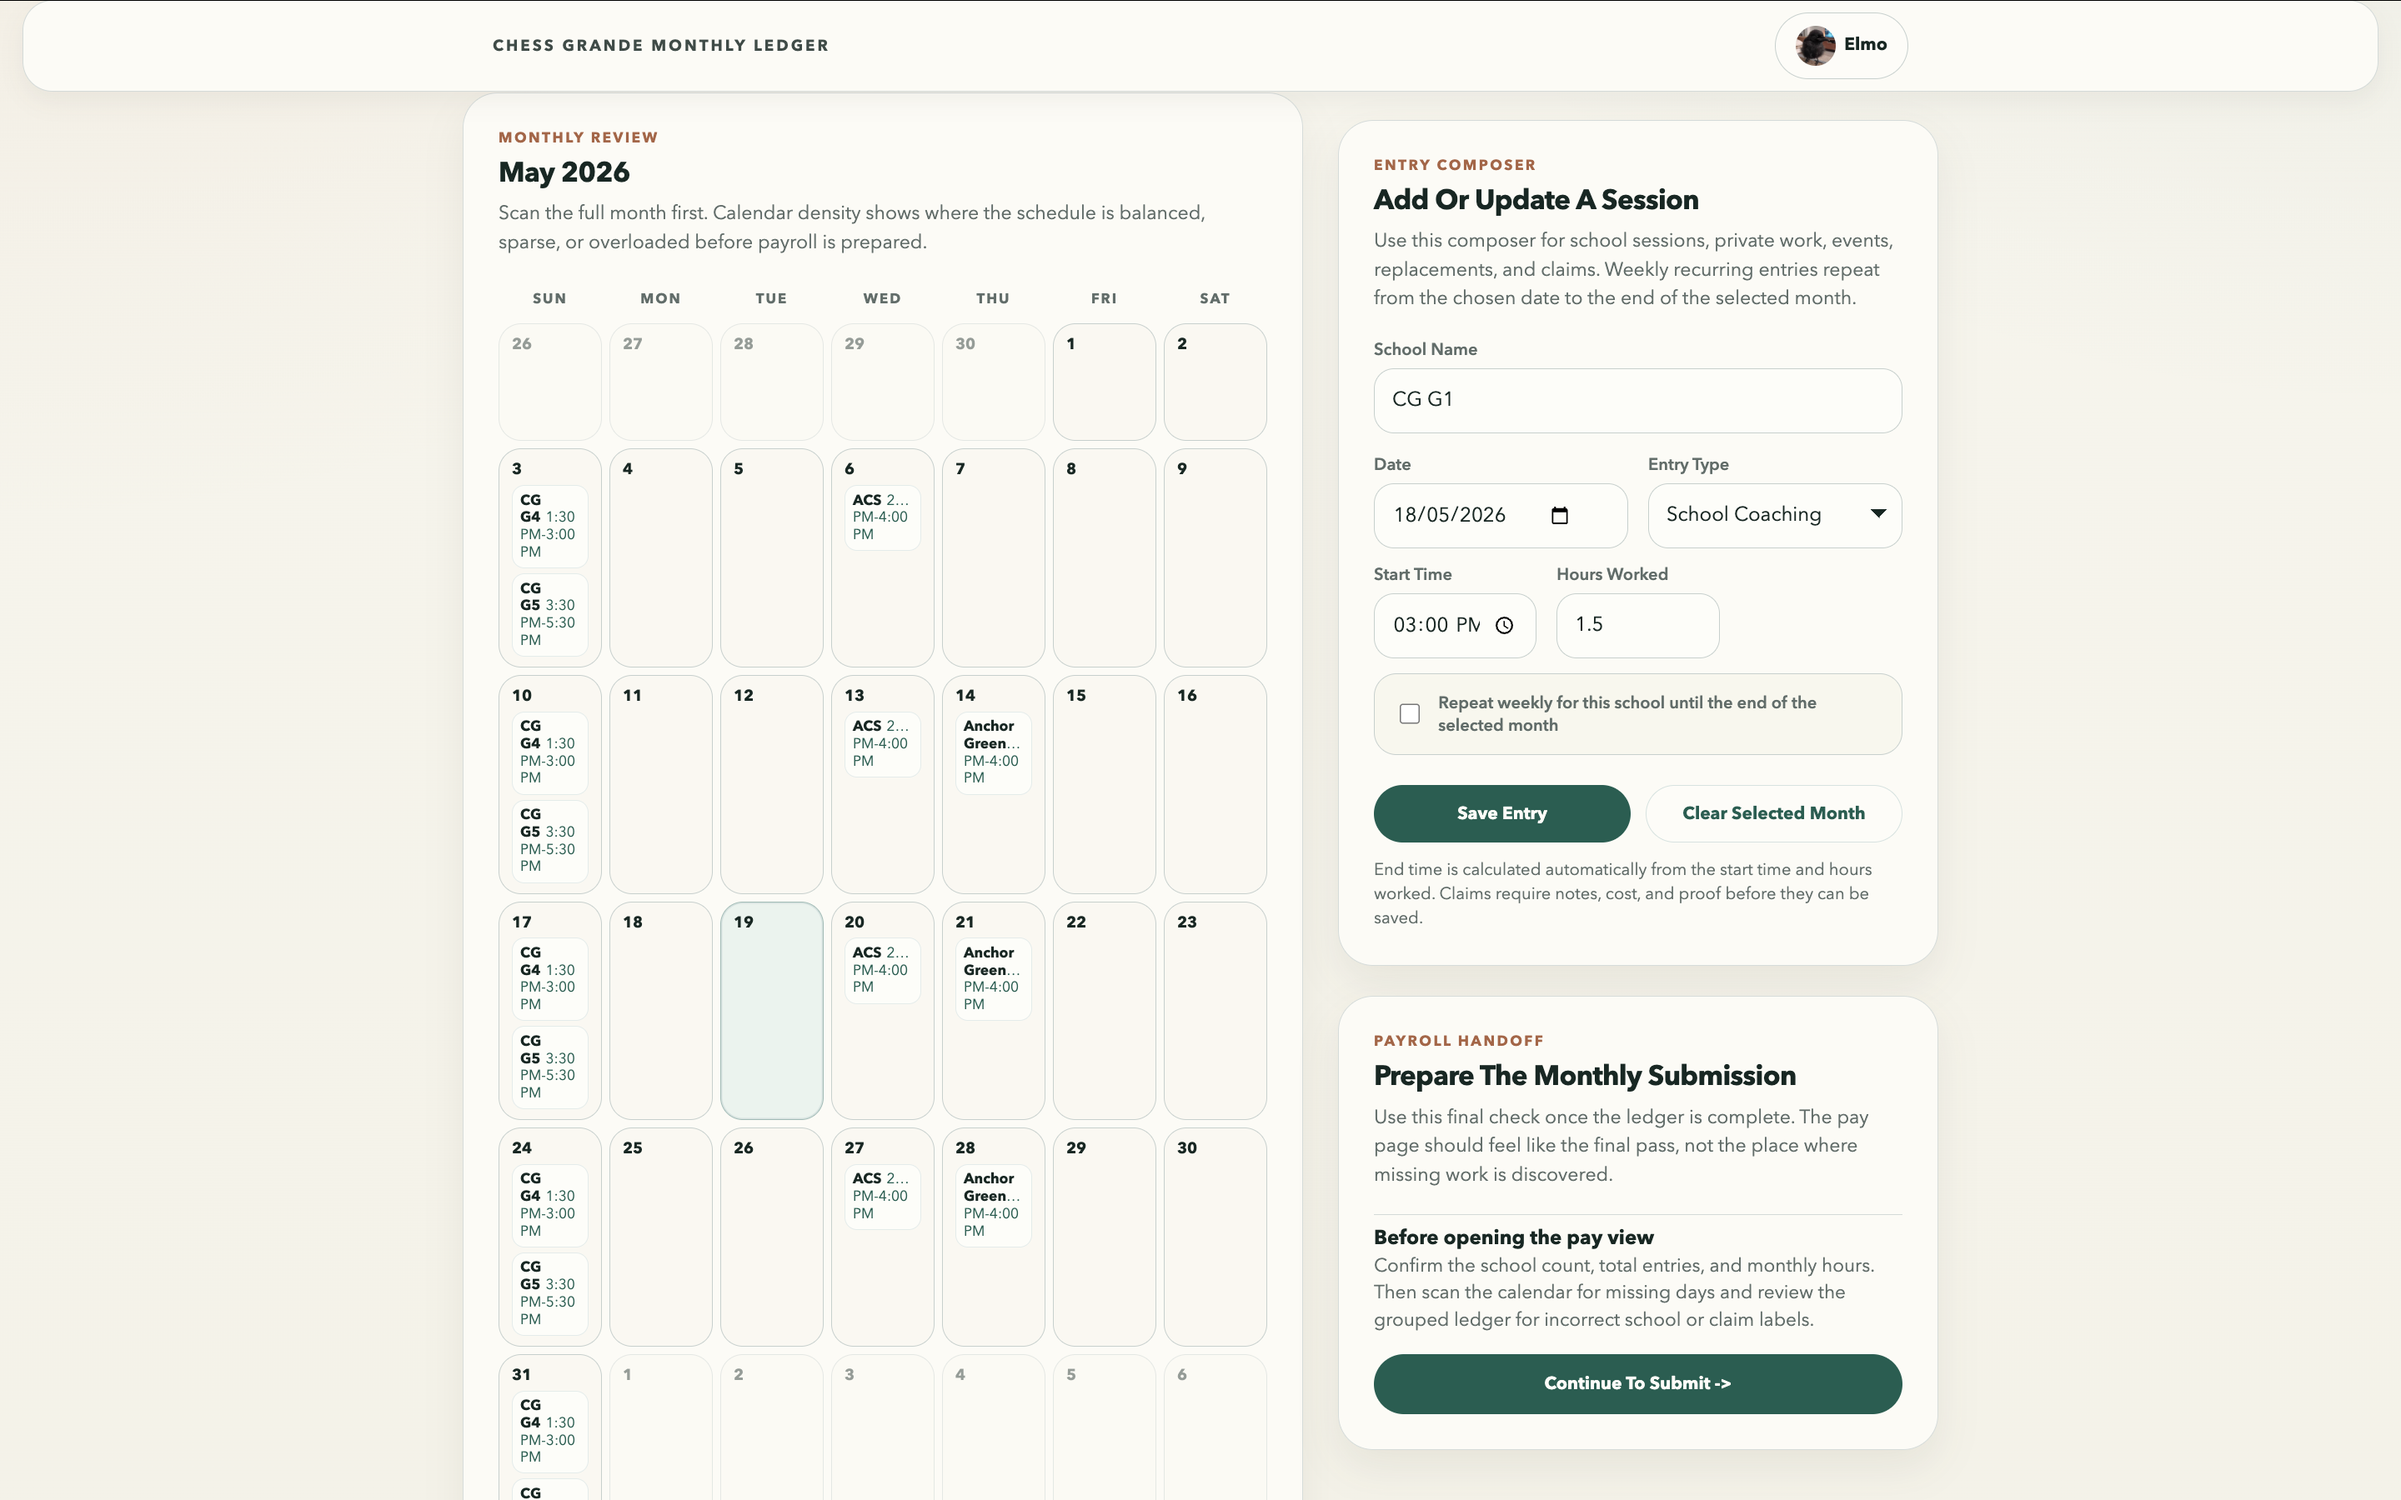
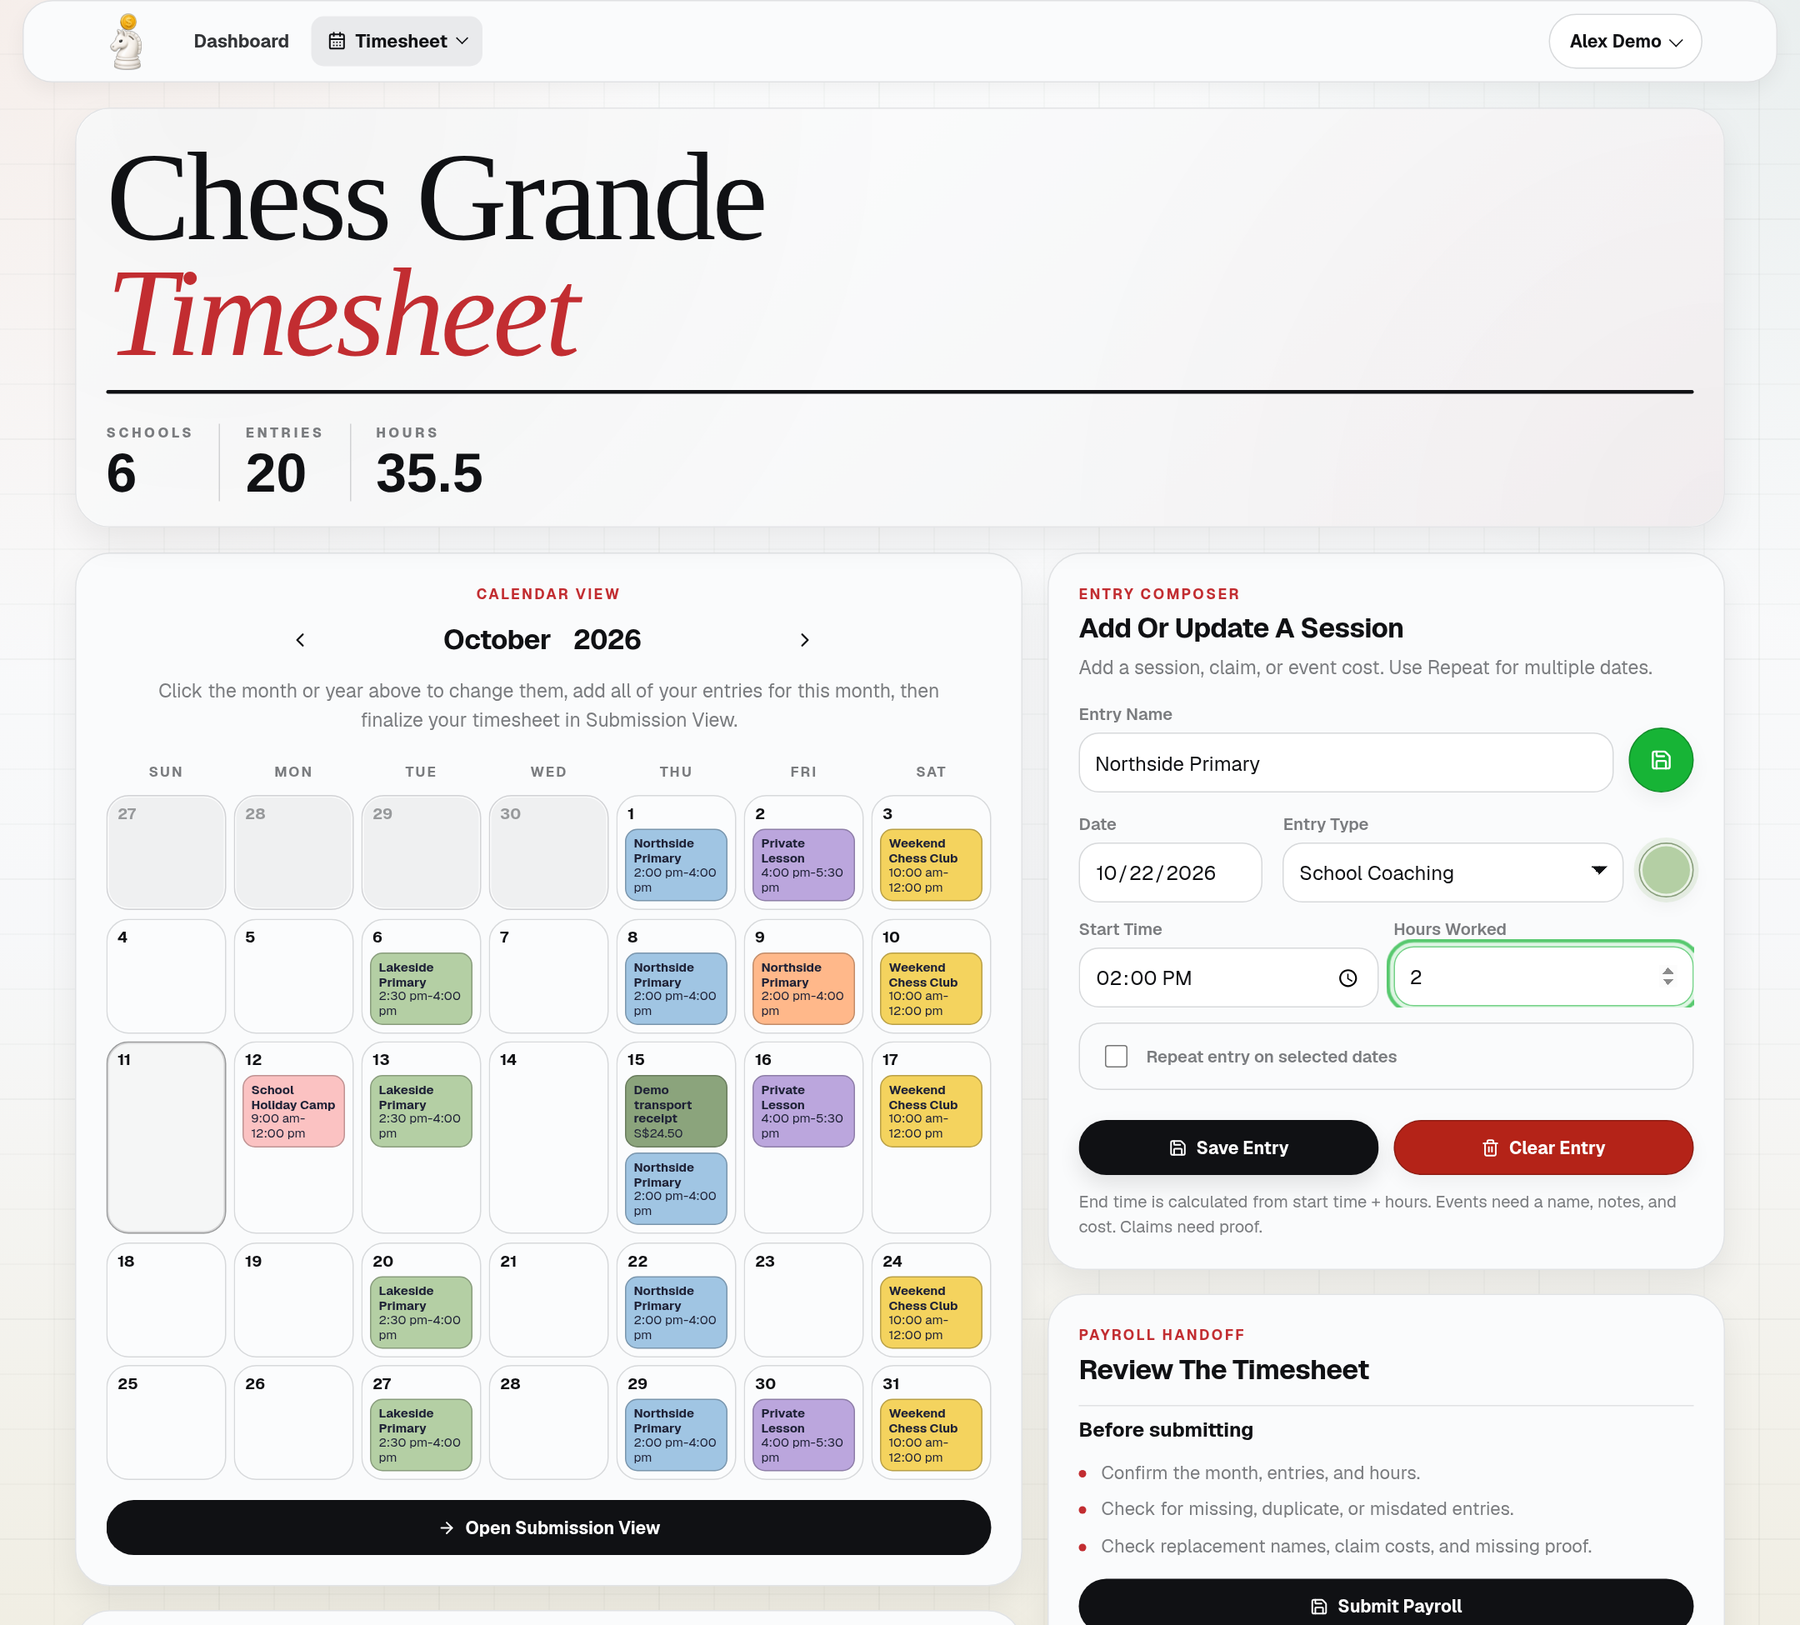
Simplify README and refresh app screenshots

diff --git a/README.md b/README.md
@@ -1,119 +1,80 @@
 # Chess Grande Payroll Portal
 
-A static web payroll portal for Chess Grande employees, managers, and webadmins, replacing a manual monthly Excel timesheet with a clearer browser-based workflow.
+A web app for Chess Grande timesheets and payroll. It replaces the monthly Excel sheet with a shared calendar, pay review, and submission workflow.
 
-> Screenshots use curated demo data for GitHub. Real payroll, bank, or user records are hidden. 
+## What it does
 
-## Before And After
+- **Employees** log coaching sessions, replacements, private lessons, camps, events, and expenses. They review their pay and submit payroll.
+- **Managers** review submissions, mark payments as paid, manage pay rates, edit employee drafts, and send notices.
+- **Webadmins** manage user profiles and account roles.
+- Coaches receive monthly hourly pay. Trainees receive a fixed weekly stipend for each completed week with eligible work.
+- Claim receipts are stored privately. AI tools can import Excel timesheets and answer webadmin questions using uploaded support documents.
 
-The original workflow was a spreadsheet-first payment sheet: staff filled repeated rows, dates, time blocks, claims, and replacements manually before payroll review. This project turns that into a role-based web app backed by Supabase, with draft entries, monthly pay review, manager oversight, and webadmin profile management.
+## Screenshots
 
-<table>
-  <tr>
-    <th>Before: manual Excel payment sheet</th>
-    <th>After: guided web timesheet</th>
-  </tr>
-  <tr>
-    <td><img src="assets/readme/excel-before.png" alt="Old Chess Grande Excel payment sheet with manual rows for school sessions and camp entries"></td>
-    <td><img src="assets/readme/employee-timesheet.png" alt="Chess Grande employee timesheet web page with a monthly calendar, activity summary, and entry composer"></td>
-  </tr>
-</table>
+These screenshots show the current app with fictional demo data. Names, contact details, bank details, and pay amounts are examples.
 
-## Why This Exists
+### Employee timesheet
 
-The Excel version worked, but it made payroll depend on careful manual entry across many repeated date columns and category sections. It was easy for staff to miss a session, duplicate a date, or separate claim proof from the payroll line it belonged to.
+View the month, add entries, and group work by activity.
 
-The web app keeps the familiar monthly ledger idea, but gives each role a focused workflow:
+![Employee timesheet with a colour-coded calendar and session form](assets/readme/employee-timesheet.png)
 
-- Employees add coaching sessions, replacements, private work, events, camps, and claims.
-- The monthly pay page calculates hours and pay from the same draft ledger.
-- Trainees on the manager-assigned weekly-stipend policy receive one fixed stipend for each completed week with positive-hour work. They may submit qualifying weeks before the manager sets the stipend; any manager-only promotion target remains hidden from trainees.
-- Managers review submitted payroll snapshots and inspect employee entries.
-- Webadmins maintain user profiles, account roles, and operational details.
+### Pay review
 
-## How The Web App Is Used
+Check hours, pay, and profile details before submitting.
 
-### 1. Employees Build The Monthly Timesheet
+![Employee pay review with demo hours, calculated pay, and payroll profile](assets/readme/pay-review.png)
 
-Employees work from one monthly view. The calendar shows schedule density, while the activity summary groups entries for review before submission.
+### Manager dashboard
 
-![Employee timesheet view with demo monthly entries](assets/readme/employee-timesheet.png)
+Review employee submissions, filter payment status, and mark payroll as paid.
 
-### 2. Employees Review And Submit Pay
+![Manager dashboard with demo employees and an expanded payroll submission](assets/readme/manager-dashboard.png)
 
-The pay view mirrors the same entries through a payroll lens. Hourly employees review a monthly calculation, while weekly-stipend trainees review and submit closed Monday–Sunday weeks without seeing manager-only promotion criteria.
+### Webadmin directory
 
-![Employee pay review page with demo payroll summary](assets/readme/pay-review.png)
+Search users, edit profiles, and manage roles and AI model settings.
 
-### 3. Managers Review Submitted Payroll
+![Webadmin directory with fictional users, account roles, and model settings](assets/readme/webadmin-directory.png)
 
-Managers get an operational queue for submitted monthly payroll. They can filter by month/year, scan totals, and open an employee submission for deeper review.
+## Run locally
 
-![Manager dashboard with demo payroll submissions](assets/readme/manager-dashboard.png)
+Use Node.js 22 or newer and Python 3.
 
-### 4. Webadmins Manage Users And Roles
+```bash
+npm ci
+python3 -m http.server 8080
+```
 
-Webadmins manage the user directory from one maintenance screen, including role context for employees, managers, and webadmins.
+Open `http://localhost:8080`. The home page redirects to `login.html`.
 
-![Webadmin user directory with demo profile records](assets/readme/webadmin-directory.png)
+The frontend uses the service URLs in [supabase-client.js](supabase-client.js) and [claim-proof-storage.js](claim-proof-storage.js). It needs a configured Supabase project for sign-in and saved data.
 
-## What It Is Built With
+To run the separate claim-proof and AI Worker locally:
 
-- Static HTML, CSS, and JavaScript
-- Supabase Auth for sign-in
-- Supabase Postgres with Row Level Security for profiles, draft entries, submissions, and payroll entries
-- Cloudflare Worker + private R2 bucket for claim proof image upload and signed viewing
-- Optional OpenRouter + LangChain RAG chatbot for webadmin support documents
-- Static hosting on Vercel or Cloudflare Pages
+```bash
+npm run worker:dev
+```
 
-## Claims Images
+See [the Worker](cloudflare-worker/claim-proof-worker.js) for required bindings and secrets, and [its configuration](cloudflare-worker/wrangler.toml) for R2 bucket settings. The frontend continues to use its configured Worker URL.
 
-Claim proof images use a private Cloudflare R2 bucket through a Cloudflare Worker. Used when an employee files a company claim (i.e. Taxi/Grab claims).
+## Checks
 
-Pages that use claim images:
+```bash
+npm test
+npm run worker:dry-run
+```
 
-- Employee upload and preview
-- Pay review preview
-- Manager submitted-entry review
+The weekly-pay test currently fails because two SQL migration files are missing from `supabase/migrations/`.
 
-## Webadmin Chatbot
+## Stack and deployment
 
-The webadmin dashboard includes an optional AI chat popup. The browser sends the logged-in Supabase token to the Worker, and the Worker verifies the user is a webadmin before calling OpenRouter through LangChain. This is just a proof of concept for now
+- Plain HTML, CSS, and JavaScript.
+- Supabase Auth and Postgres with Row Level Security.
+- A Cloudflare Worker and private R2 buckets for receipts and support documents.
+- OpenRouter and LangChain for optional AI features.
 
-Upload text, Markdown, CSV, or JSON support documents into the configured R2 prefix for RAG retrieval.
+Host the frontend on Cloudflare Pages or Vercel. No frontend build is needed. Deploy the Worker separately and configure its bindings and secrets.
 
-## Deploy
-
-This is a static app, so Cloudflare Pages can serve it without a framework build step.
-
-Routing note: `index.html` redirects to `login.html`; the rest of the app is served as plain `.html` files.
-
-## Roles And Access
-
-New signups start as employees. Promote manager or webadmin accounts from trusted SQL in Supabase:
-
-Allowed roles:
-
-- `employee`
-- `manager`
-- `webadmin`
-
-## Project Status
-
-Current app pages:
-
-- Login and signup
-- Profile setup and profile menu
-- Employee timesheet
-- Employee monthly pay review
-- Manager submitted payroll dashboard
-- Manager draft-timesheet editor
-- Manager submitted-entry review
-- Webadmin user directory
-
-Good next improvements:
-
-- Add a processed filter/state for manager payroll review
-- Add email confirmation and notification polish
-- Improve entry type color-coding across calendar and ledger views
-- Continue unifying the shared Supabase contract with the iOS app
+Set up Supabase using [supabase-schema.sql](supabase-schema.sql). New accounts start as employees; grant manager or webadmin access through trusted administration.
